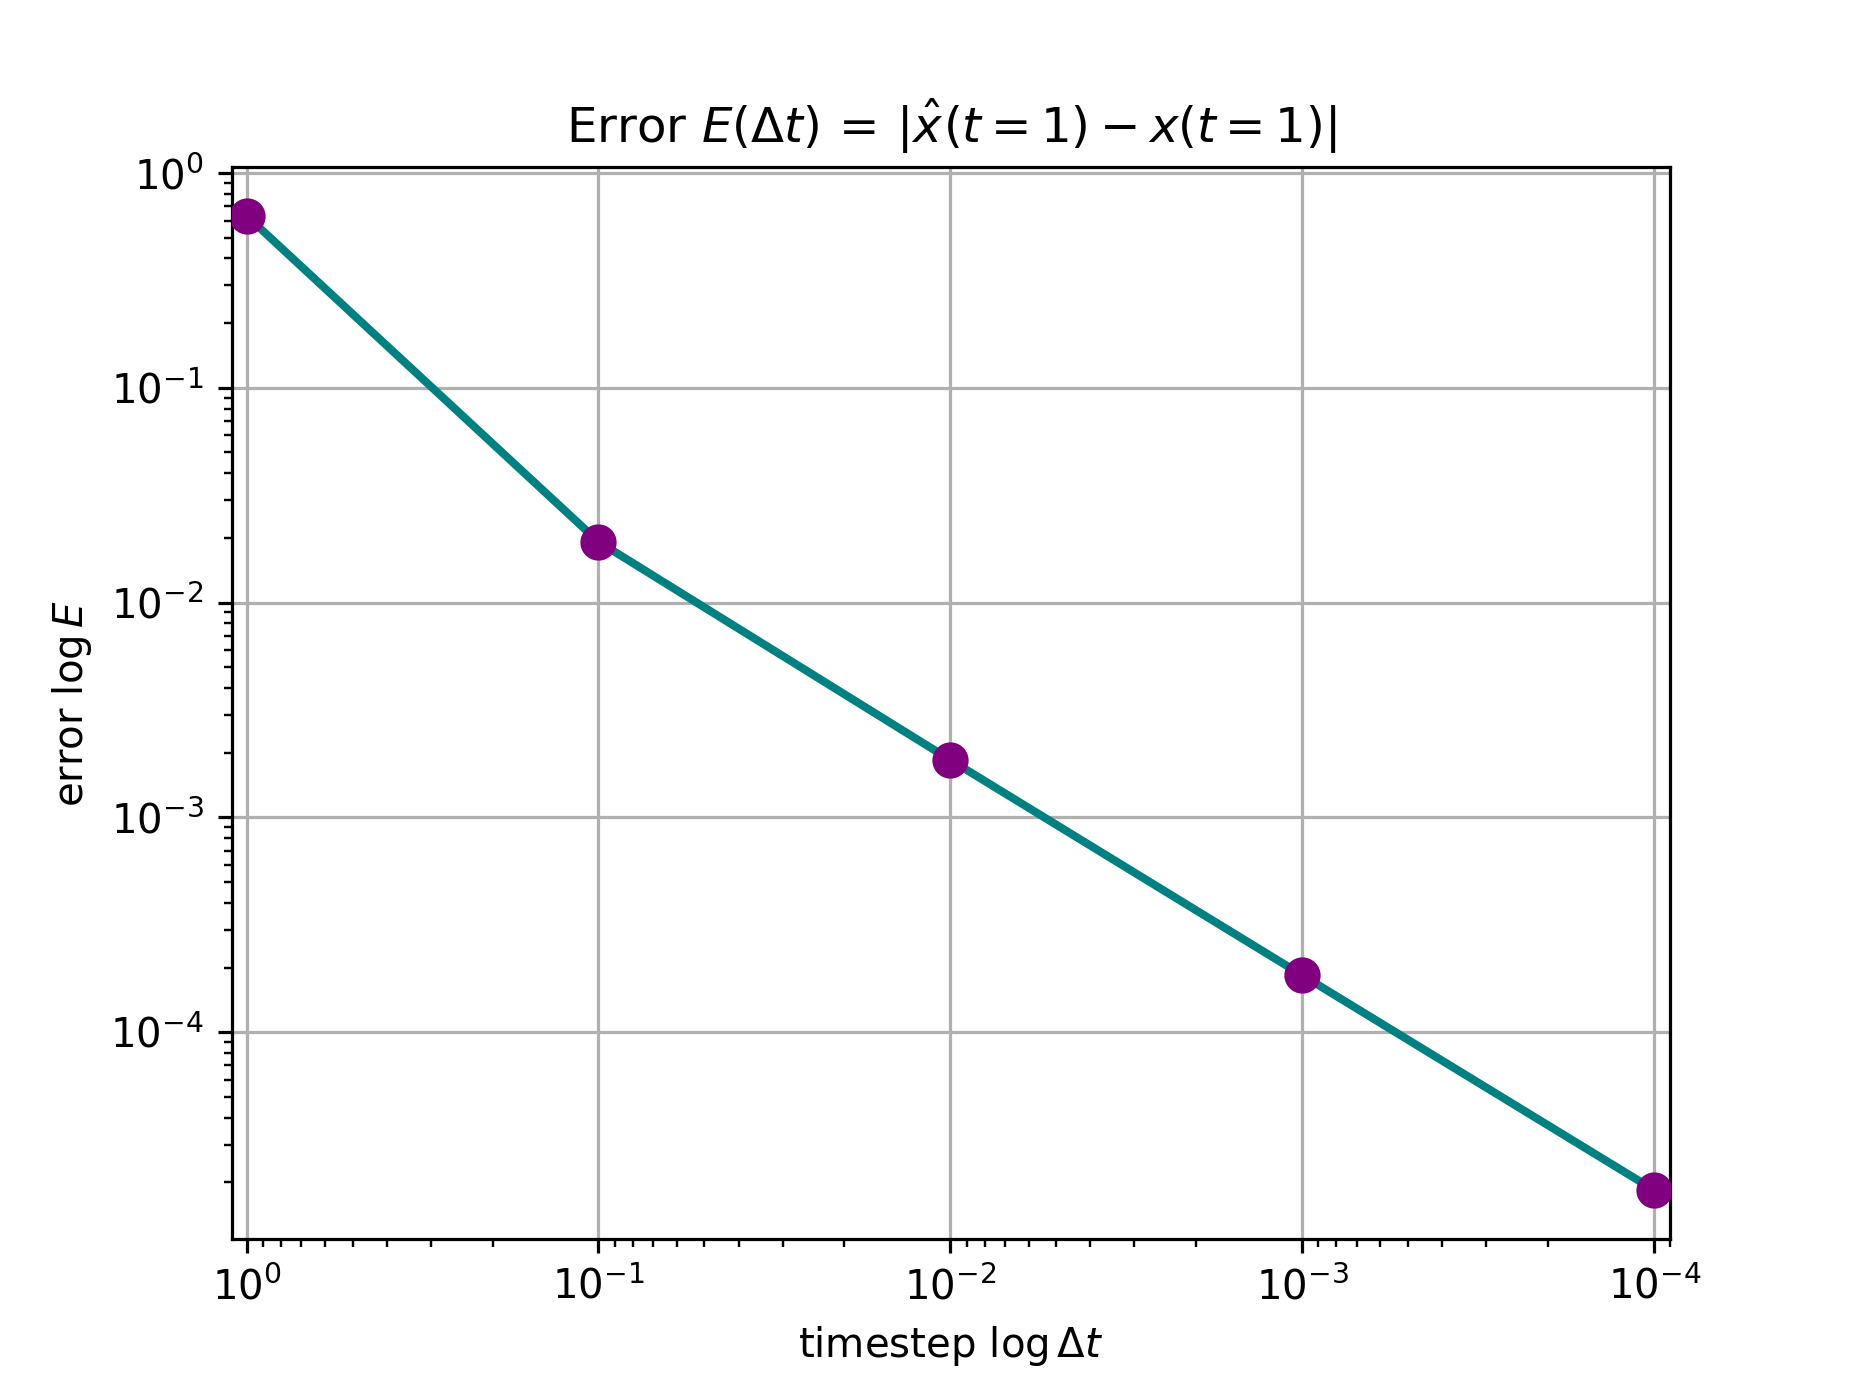
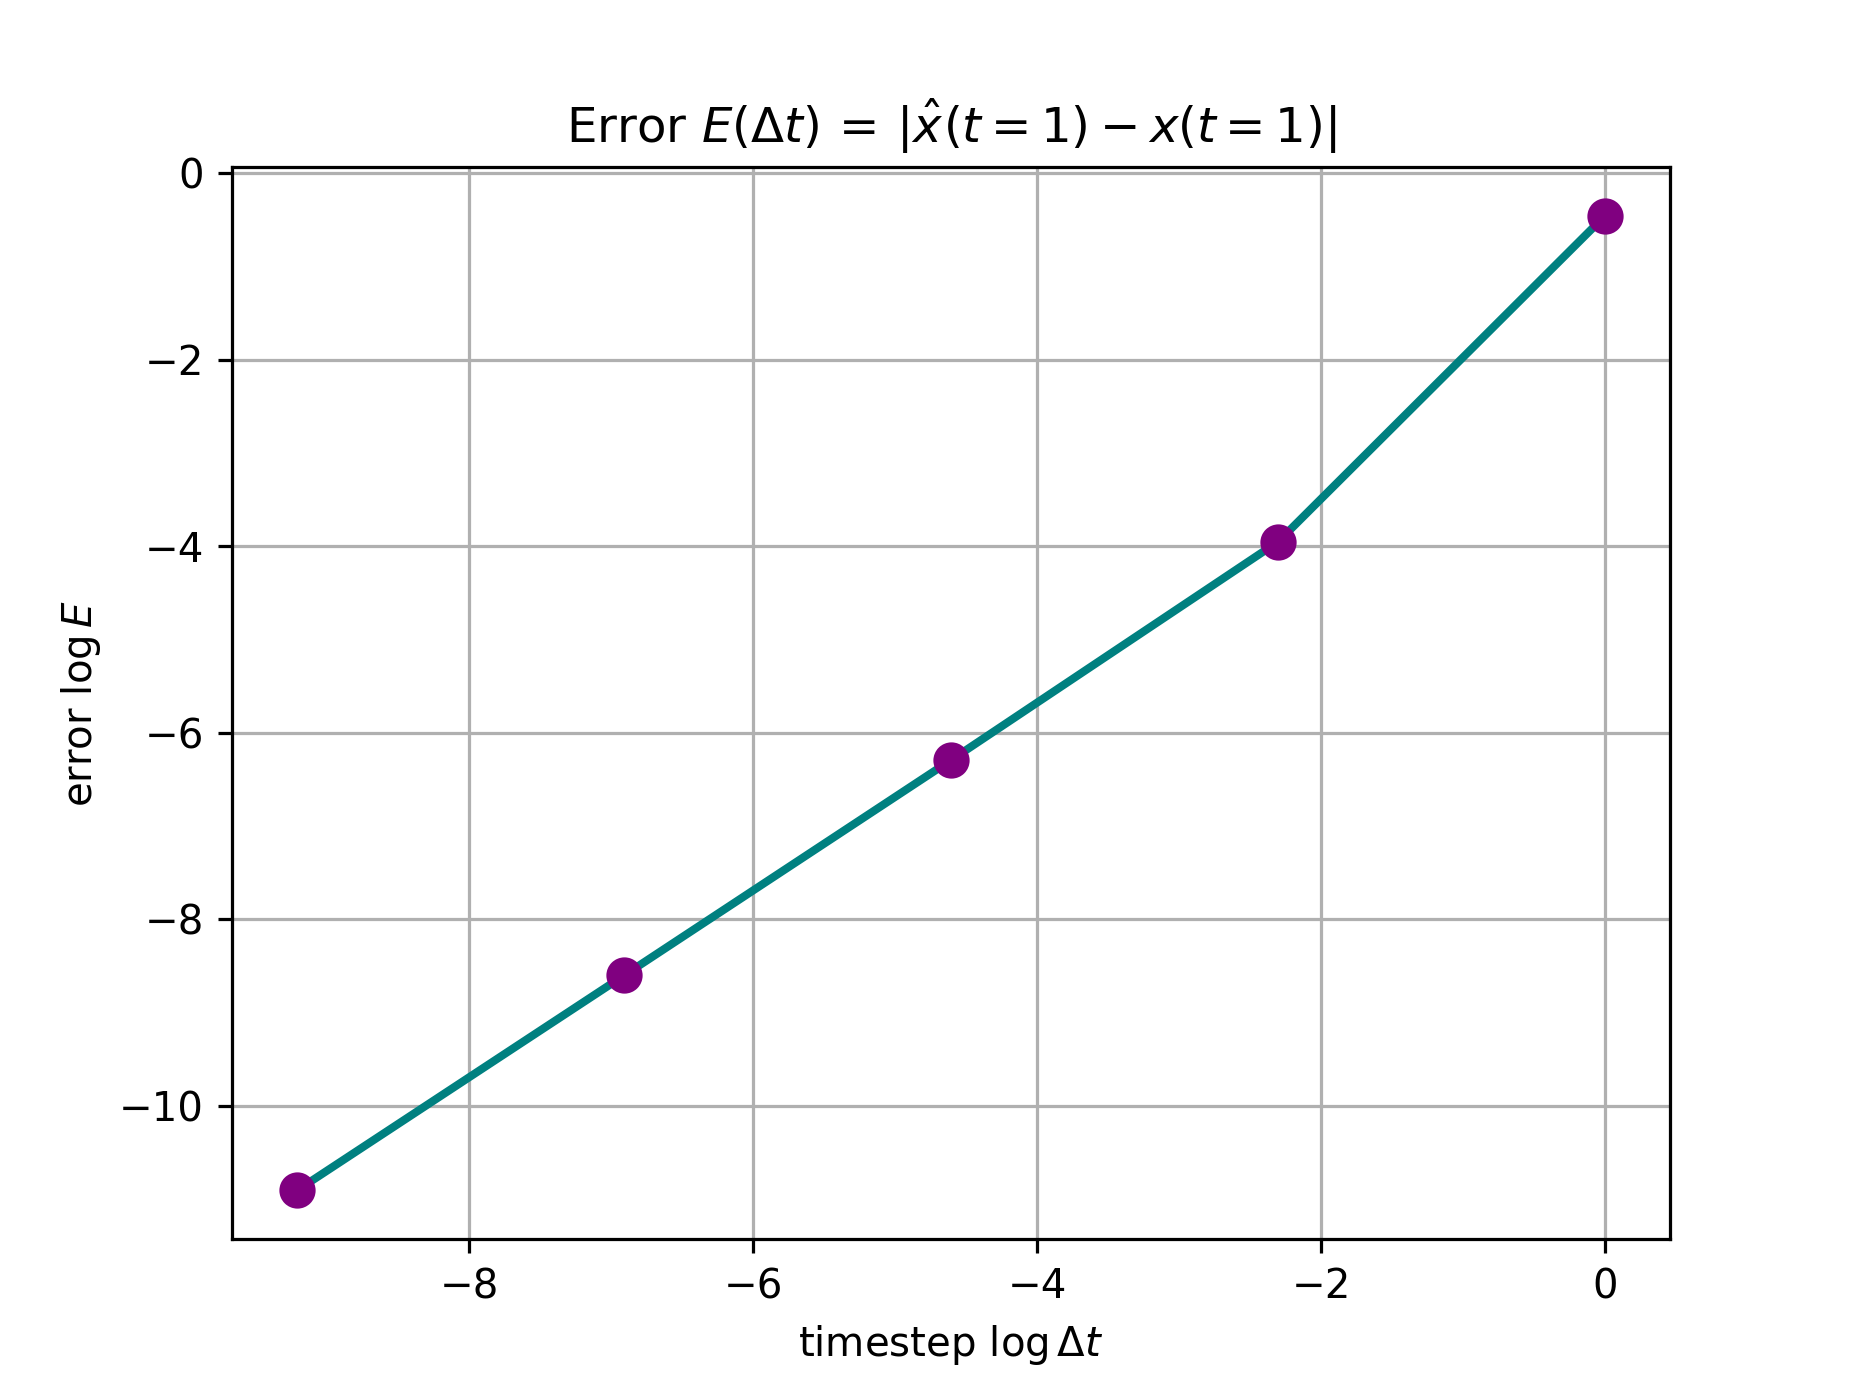
finishing touches to HW2

diff --git a/hw/submissions/hw2/src/p2.8.3.py b/hw/submissions/hw2/src/p2.8.3.py
@@ -56,14 +56,13 @@ plt.grid()
 plt.savefig('figure2.8.3.c.i.png',dpi=290)
 plt.clf()
 
-plt.loglog(dt_arr,errors,color='teal',lw=2,zorder=10)
-plt.scatter(dt_arr,errors,color='purple', marker='o',lw=3,zorder=10)
+plt.plot(np.log(dt_arr),np.log(errors),color='teal',lw=2,zorder=10)
+plt.scatter(np.log(dt_arr),np.log(errors),color='purple', marker='o',lw=3,zorder=10)
 plt.xlabel(r'timestep $\log{\Delta t}$')
 plt.ylabel('error $\log{E}$')
-plt.xscale('log')
-plt.yscale('log')
+
 plt.title(r'Error $E(\Delta t) \,= \,|\hat x(t=1) - x(t=1)|$')
-plt.xlim(dt_arr[0]+dt_arr[0]/10.,dt_arr[-1]-dt_arr[-1]/10.)
+#plt.xlim(dt_arr[0]+dt_arr[0]/10.,dt_arr[-1]-dt_arr[-1]/10.)
 plt.grid()
 
 
